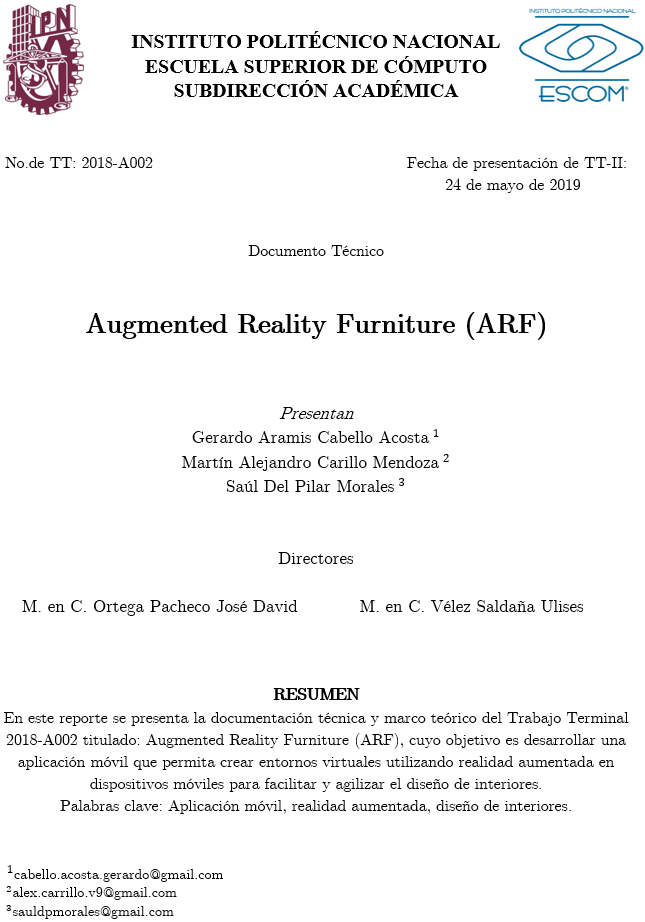
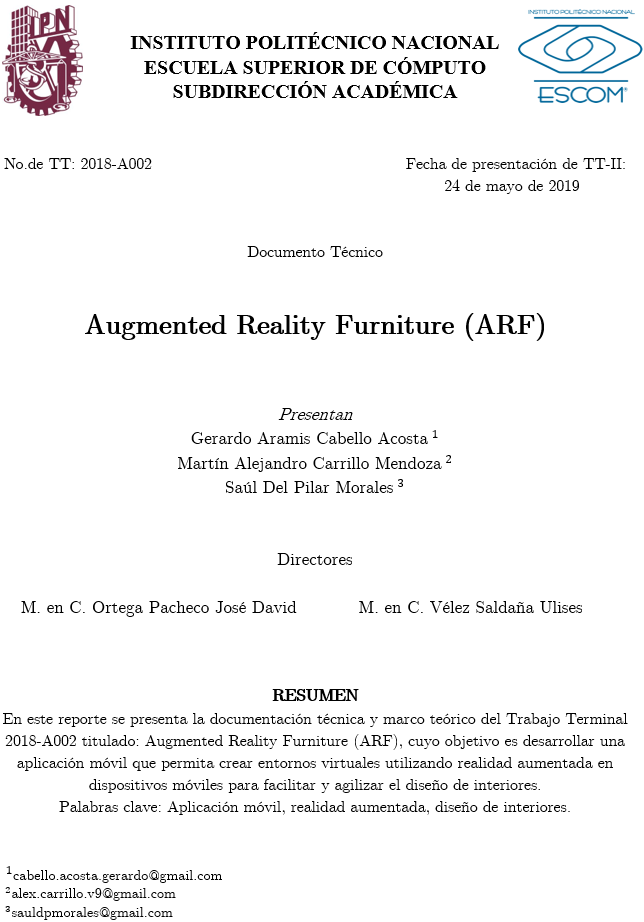
Correccion en numeraciond e paginas

diff --git a/TT2018-A002/TT2018-A002.tex b/TT2018-A002/TT2018-A002.tex
@@ -44,15 +44,18 @@
 
     %%%%%%%   PORTADA   y RESUMEN   %%%%%%% Este es el contenido agregado de la secci\'on 2.
 
-    \include{portada} %incluye el archivo portada.tex
-    \include{presentacion}
-    \include{advertencia} %incluye el archivo portada.tex
+    \clearpage %Para iniciar con los arAbigos
+    \input{./portada} %incluye el archivo portada.tex
+    \input{./presentacion}
+    \input{./advertencia} %incluye el archivo portada.tex
     %\include{resumen} %Incluir resumen del documento (resumen.tex)
 
     %%%%%%%   INCLUIR ENCABEZADOS EN INDICES Y CAPITULOS   %%%%%%%
+    \clearpage %Para iniciar con los arAbigos
     \pagestyle{headings}
 
     %%%%%%%   NUMERACION EN CONTENIDO E INDICE DE TABLAS Y FIGURAS   %%%%%%%
+    \clearpage %Para iniciar con los arAbigos
     \pagenumbering{roman} %NUmeros romanos
     %\setcounter{page}{1} %Comienza en I por default, aquI se puedo modificar
 

diff --git a/TT2018-A002/advertencia.tex b/TT2018-A002/advertencia.tex
@@ -1,6 +1,14 @@
 
-\begin{figure}[H]
-	\centering
-	\includegraphics[width=17cm,height=13cm]{imagenes/adv.png}
-\end{figure} 
-\clearpage
+\begin{titlepage}
+	\begin{figure}[H]
+		\centering
+		\includegraphics[width=17cm,height=20cm]{imagenes/carta.png}
+	\end{figure} 
+\begin{titlepage}
+
+\end{titlepage}
+	\begin{figure}[H]
+		\centering
+		\includegraphics[width=17cm,height=13cm]{imagenes/adv.png}
+	\end{figure}
+\end{titlepage}

diff --git a/TT2018-A002/presentacion.tex b/TT2018-A002/presentacion.tex
@@ -1,6 +1,7 @@
 
-\begin{figure}[H]
-	\centering
-	\includegraphics[width=15.5cm,height=21cm]{imagenes/hojapresentacion.png}
-\end{figure} 
-\clearpage
+\begin{titlepage}
+	\begin{figure}[H]
+		\centering
+		\includegraphics[width=15.5cm,height=21cm]{imagenes/hojapresentacion.png}
+	\end{figure} 
+\end{titlepage}
